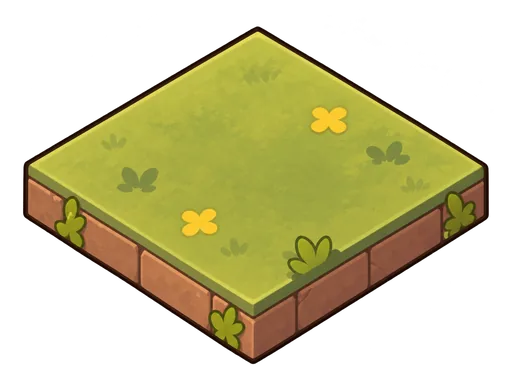
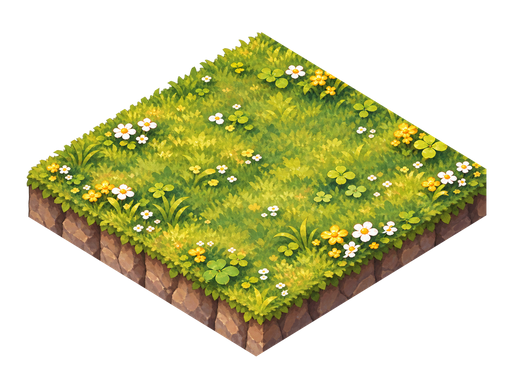
assets: update ground tiles and display impassable cells as ponds

diff --git a/sw.js b/sw.js
@@ -1,5 +1,5 @@
 // Generated by python3 scripts/build_offline.py. Do not edit this output directly.
-const PREFIX='doragami-offline-'+new URL(self.registration.scope).pathname+'-',CACHE=PREFIX+"bcb868de0862a370";
+const PREFIX='doragami-offline-'+new URL(self.registration.scope).pathname+'-',CACHE=PREFIX+"fwn-pond-20261027";
 const ASSETS=[
   "./",
   "./assets/animations/humanoid.json",
@@ -104,6 +104,7 @@ const ASSETS=[
   "./assets/units/sprout-healer/robe.svg",
   "./assets/units/sprout-healer/shadow.webp",
   "./assets/world/tiles/grass.webp",
+  "./assets/world/tiles/pond.webp",
   "./assets/world/tiles/soil.webp",
   "./assets/world/tiles/tiles.json",
   "./characters.html",
